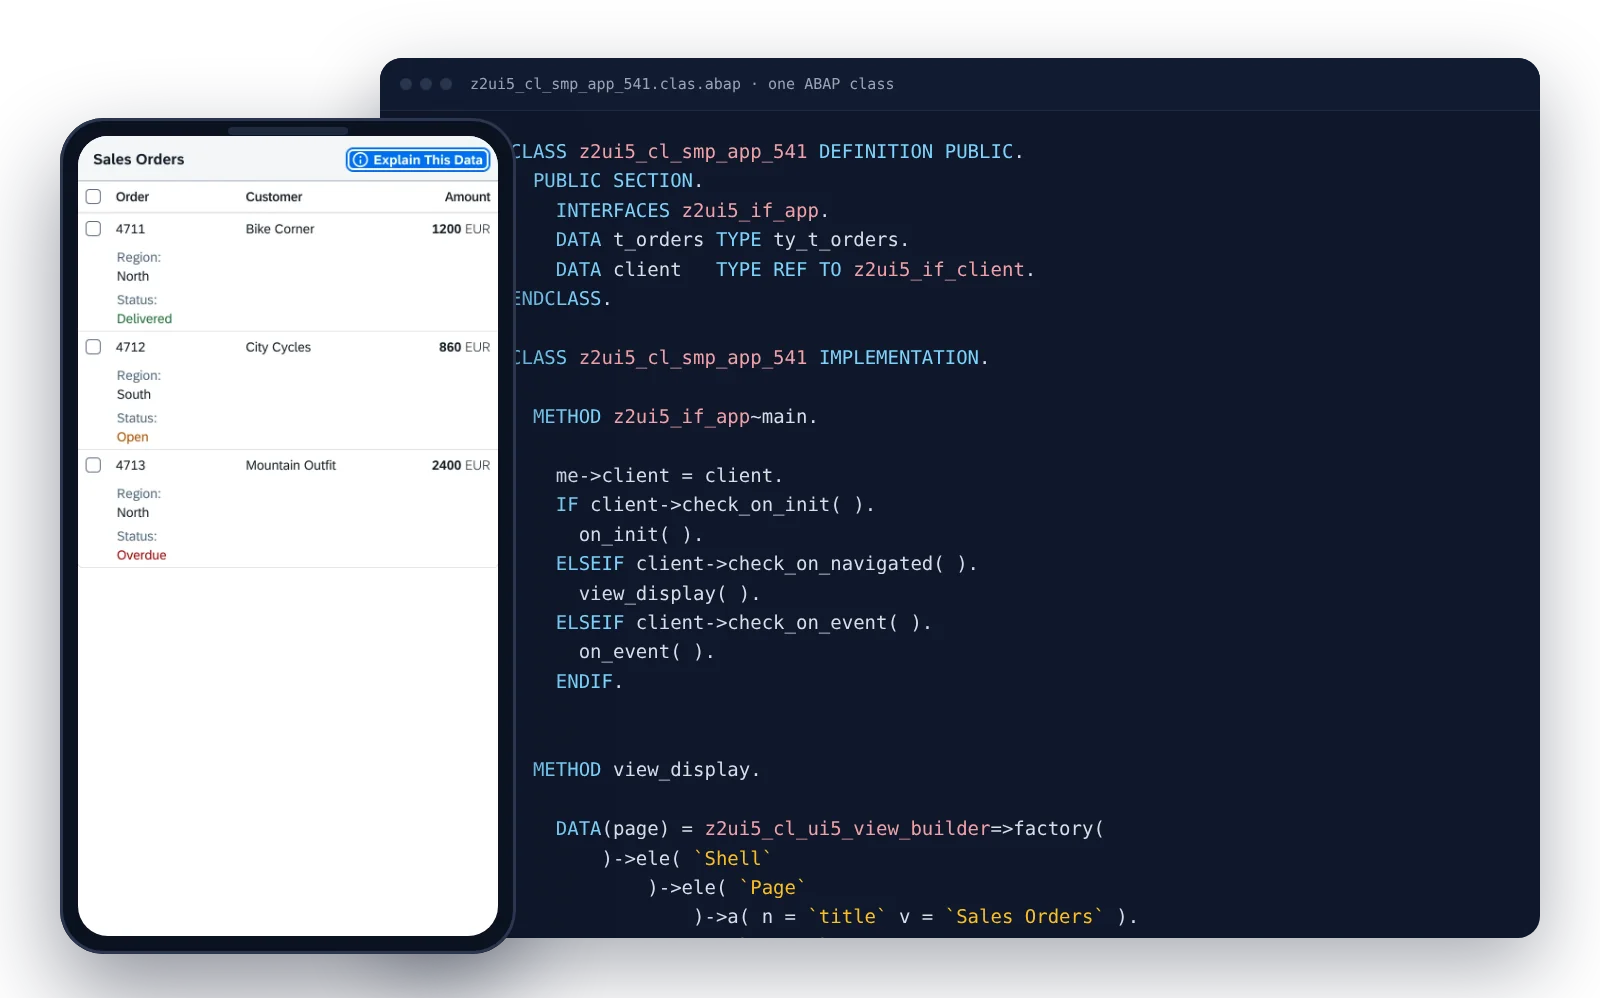
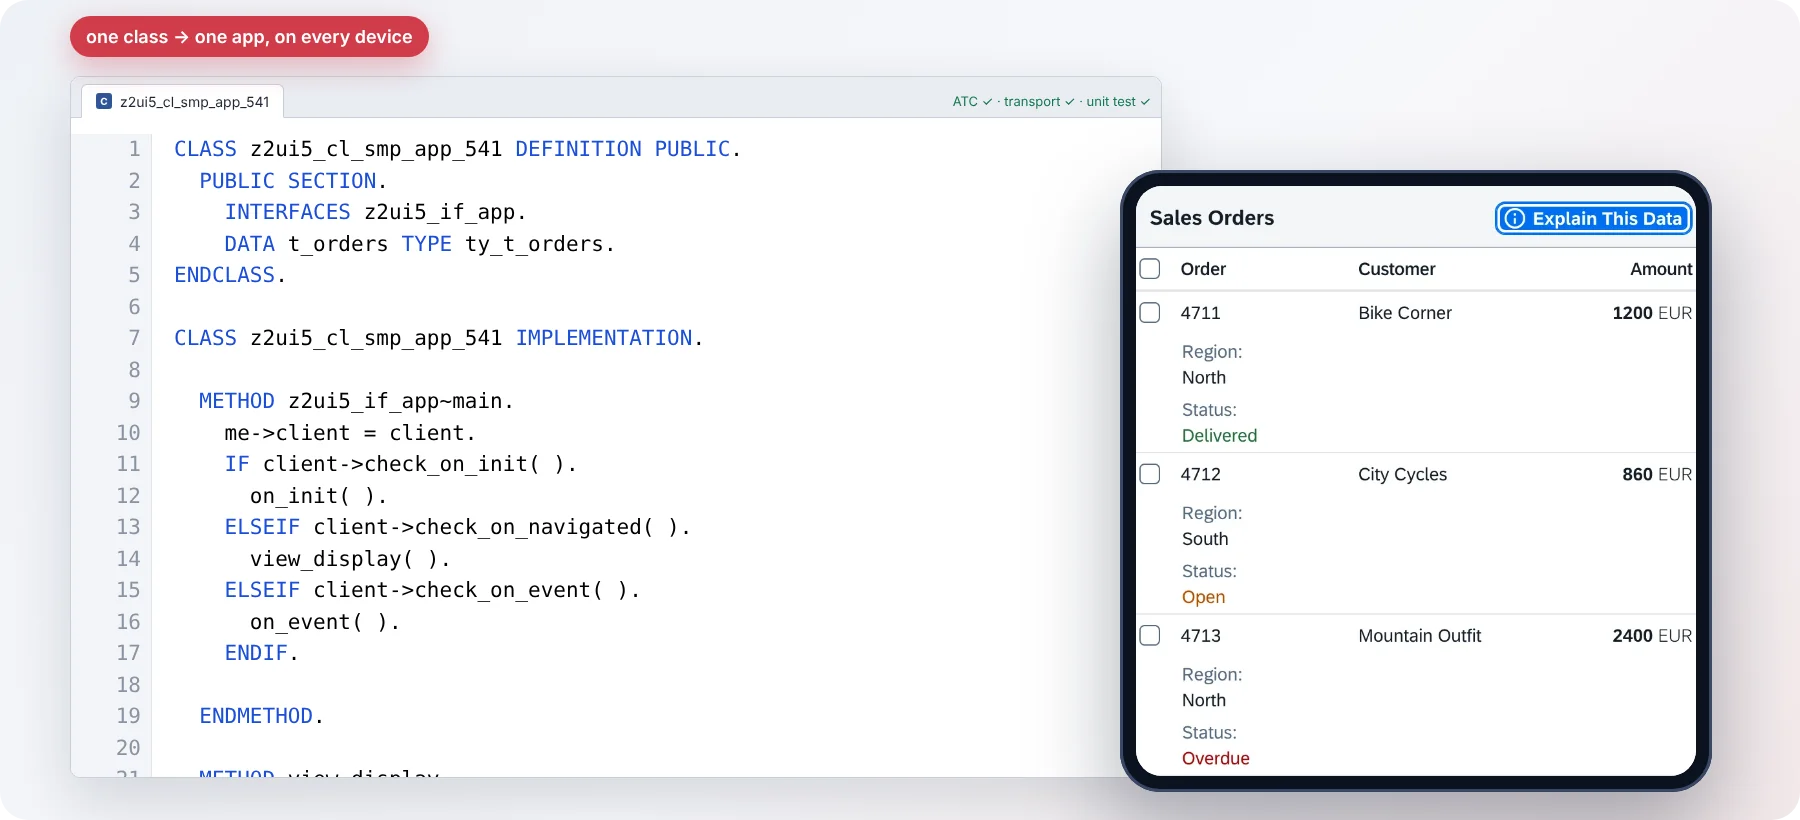
The hero scene in ADT style, full width under the headline
A white editor with blue keywords, line numbers and an Eclipse tab,
the real main method of the sales-orders class; the handheld with the
app it produces overlaps its corner on the right. Light stage, so it
sits on the page rather than in a dark block. The headline runs the
full width above it.

Claude-Session: https://claude.ai/code/session_014YZFmDmGbnnhTHeXMxMCrJ

diff --git a/src/styles/global.css b/src/styles/global.css
@@ -143,10 +143,10 @@ code { font-family: var(--mono); font-size: .9em; }
   color: var(--text);
   padding: 88px 0 104px;
 }
-.hero .wrap { display: grid; grid-template-columns: minmax(0, 1fr) minmax(0, 1.15fr); gap: 56px; align-items: center; }
+.hero .wrap { display: grid; grid-template-columns: minmax(0, 1fr); gap: 48px; }
 .hero h1 { margin: 0; color: var(--ink); font-size: clamp(36px, 5vw, 58px); font-weight: 750; letter-spacing: -.035em; }
 .hero h1 em { font-style: normal; color: var(--brand); }
-.hero .lede { margin: 22px 0 0; max-width: 560px; font-size: 19px; line-height: 1.6; color: var(--muted); }
+.hero .lede { margin: 22px 0 0; max-width: 720px; font-size: 19px; line-height: 1.6; color: var(--muted); }
 .hero .lede b { color: var(--ink); }
 .hero .actions { display: flex; flex-wrap: wrap; gap: 12px; margin-top: 34px; }
 /* the screenshot in a window frame, tilted towards the reader */
@@ -162,7 +162,7 @@ code { font-family: var(--mono); font-size: .9em; }
 .window img { display: block; width: 100%; }
 @media (max-width: 920px) {
   .hero { padding: 56px 0 64px; }
-  .hero .wrap { grid-template-columns: minmax(0, 1fr); gap: 40px; }
+  .hero .wrap { gap: 32px; }
 }
 @media (max-width: 480px) {
   .hero .actions .btn { flex: 1 1 100%; text-align: center; }
@@ -423,7 +423,7 @@ code { font-family: var(--mono); font-size: .9em; }
 
 /* the hero composite: the class and the phone, on the hero wash itself */
 .composite { margin: 0; }
-.composite img { display: block; width: 100%; height: auto; }
+.composite img { display: block; width: 100%; height: auto; border-radius: 20px; box-shadow: 0 30px 70px rgba(15, 23, 42, .12); }
 
 /* one app, every device: three frames drawn in CSS around real screenshots */
 .sub { margin: 56px 0 0; font-size: 22px; color: var(--ink); }
